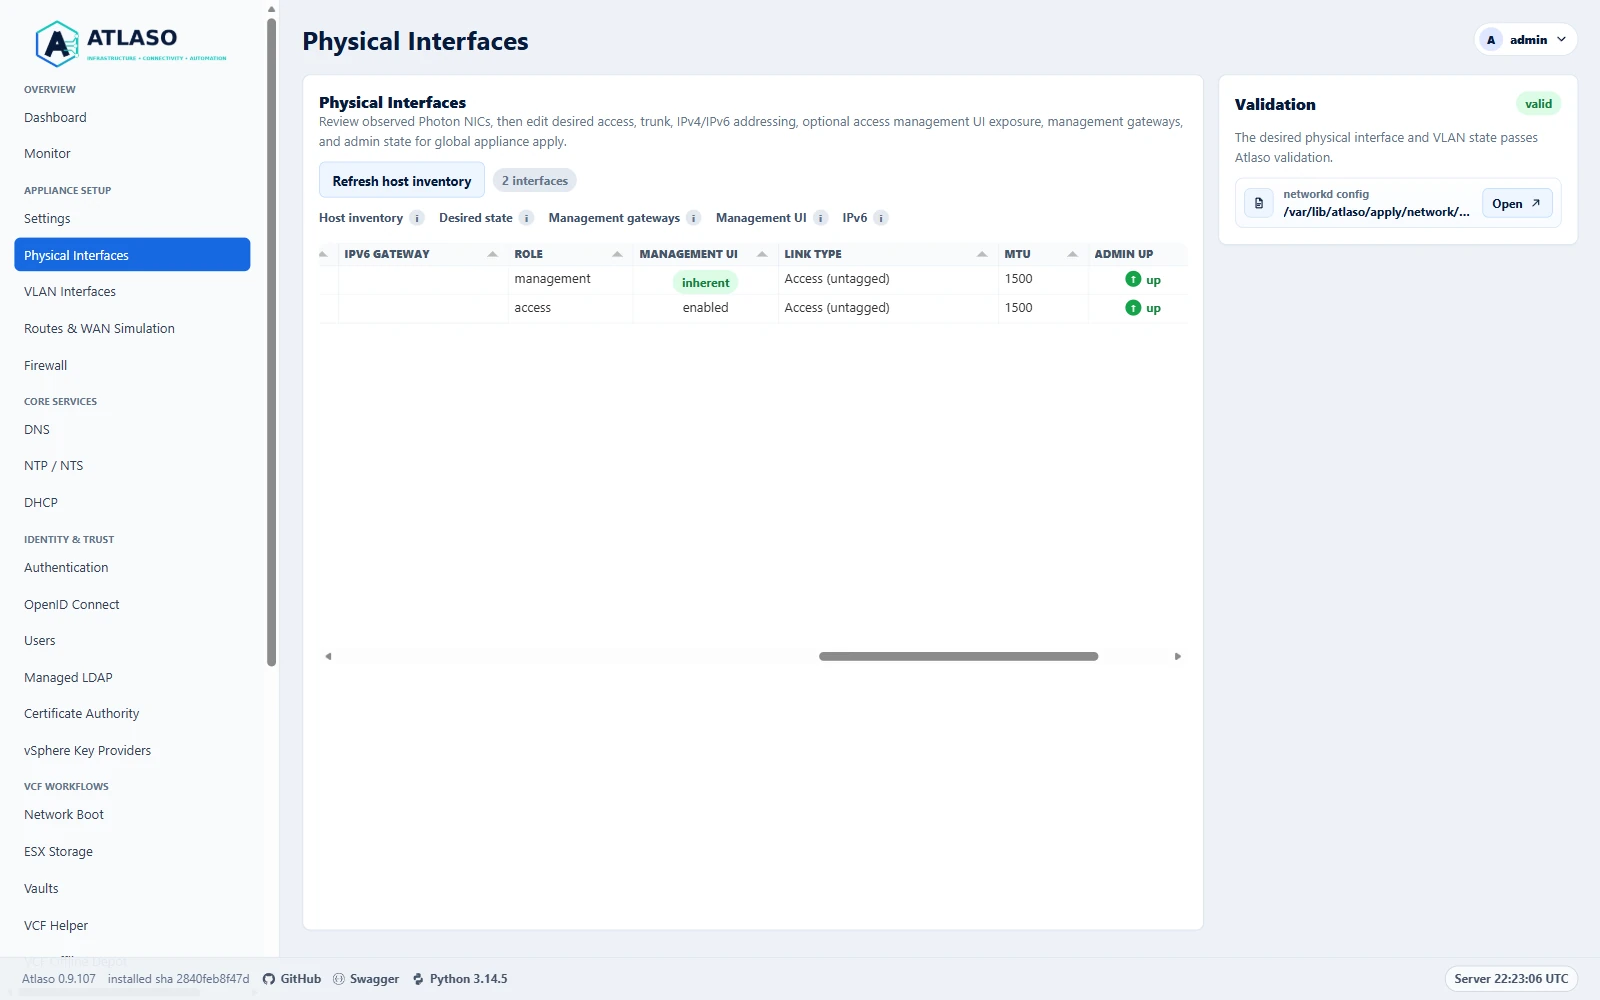
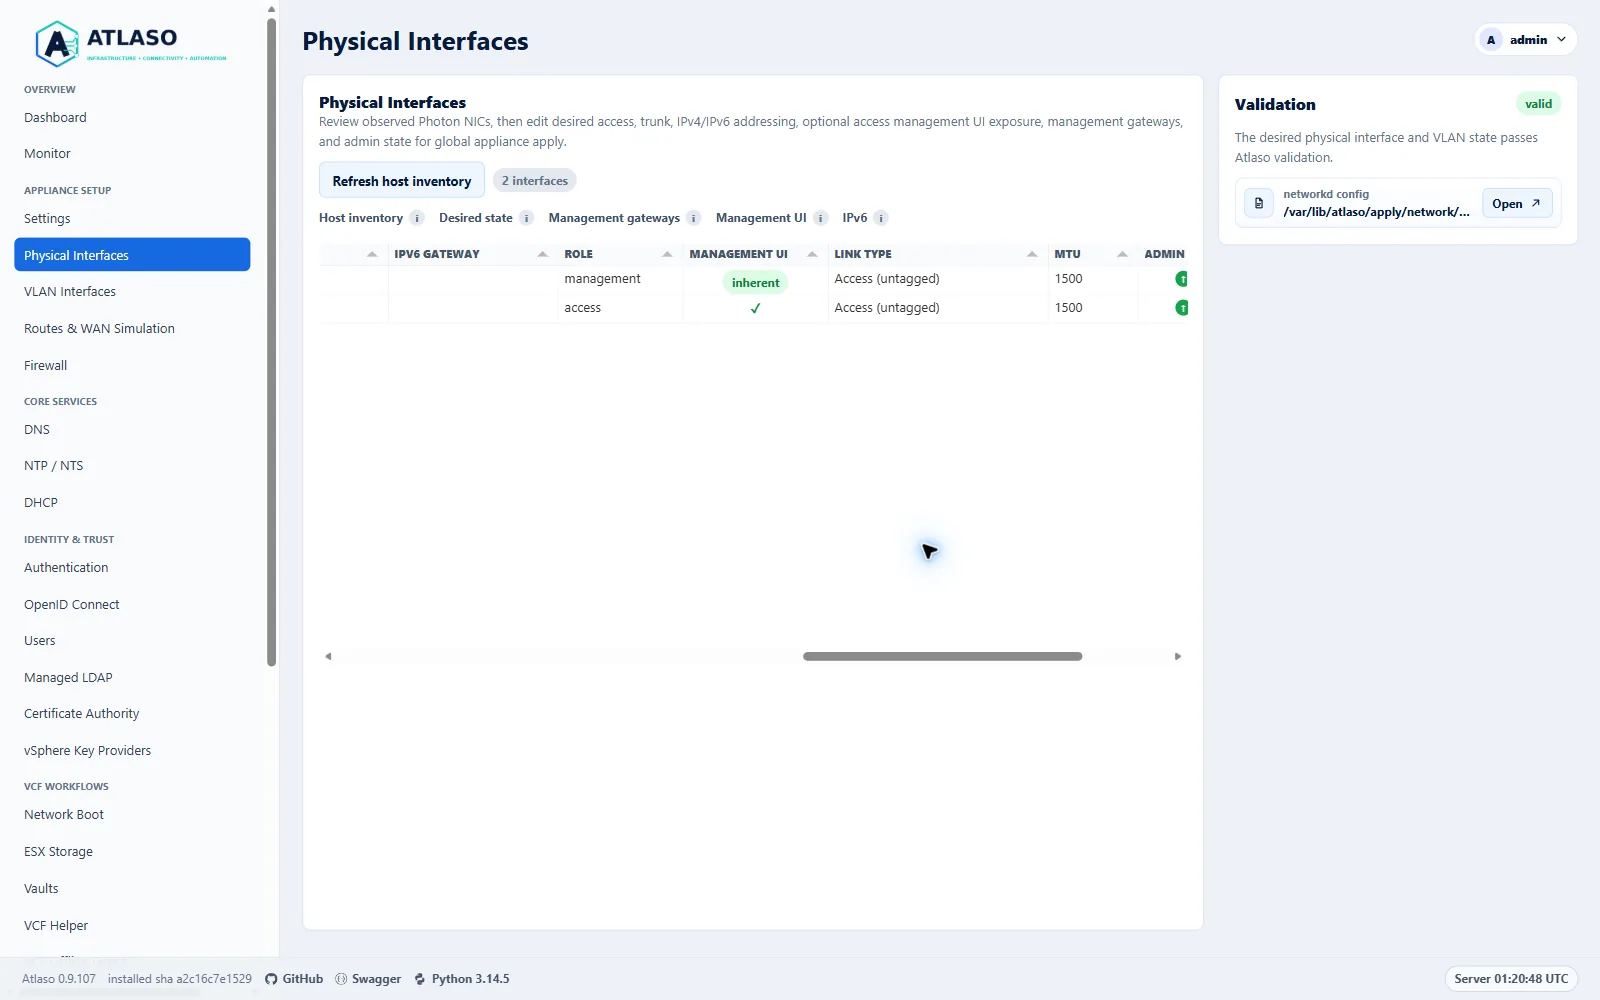
fix(ui): use standard boolean glyphs

diff --git a/atlaso/app/static/app.js b/atlaso/app/static/app.js
@@ -7859,7 +7859,9 @@ function initializePhysicalInterfacesTable() {
         {
           title: "Management UI",
           field: "access_management_ui_enabled",
-          formatter: (cell) => cell.getRow().getData().role === "management" ? '<span class="status-pill good">inherent</span>' : (cell.getValue() ? "enabled" : "disabled"),
+          formatter: (cell) => cell.getRow().getData().role === "management"
+            ? '<span class="status-pill good">inherent</span>'
+            : atlasoBooleanFormatter(cell),
           editor: "tickCross",
           editable: (cell) => {
             const data = cell.getRow().getData();
@@ -8927,7 +8929,7 @@ function initializeVlanInterfacesTable() {
         {
           title: "Management UI",
           field: "access_management_ui_enabled",
-          formatter: "tickCross",
+          formatter: atlasoBooleanFormatter,
           editor: "tickCross",
           editable: (cell) => cell.getRow().getData().role === "access" && cell.getRow().getData().enabled,
           hozAlign: "center",

diff --git a/atlaso/app/static/service-worker.js b/atlaso/app/static/service-worker.js
@@ -1,4 +1,4 @@
-const ATLASO_CACHE = "atlaso-management-pwa-v246";
+const ATLASO_CACHE = "atlaso-management-pwa-v247";
 const ATLASO_ASSETS = [
   "/manifest.webmanifest",
   "/favicon.ico",
@@ -7,7 +7,7 @@ const ATLASO_ASSETS = [
   "/static/ui-patterns.js?v=atlaso-ui-foundation-20260726-8",
   "/static/ui-routes.js?v=issue-287-1",
   "/static/appliance-apply-polling.js?v=issue-294-2",
-  "/static/app.js?v=access-management-ui-302-1",
+  "/static/app.js?v=access-management-ui-302-2",
   "/static/terminal.js?v=issue-287-2",
   "/static/vendor/xterm/xterm.css?v=5.5.0",
   "/static/vendor/xterm/xterm.js?v=5.5.0",

diff --git a/atlaso/app/templates/base.html b/atlaso/app/templates/base.html
@@ -313,7 +313,7 @@
     <link rel="stylesheet" href="/static/vendor/monaco/atlaso-monaco.min.css?v=atlaso-monaco-20260806-7">
     <script src="/static/vendor/monaco/atlaso-monaco.min.js?v=atlaso-monaco-20260806-7"></script>
     <script src="/static/ui-routes.js?v=issue-287-1"></script>
-    <script src="/static/app.js?v=access-management-ui-302-1"></script>
+    <script src="/static/app.js?v=access-management-ui-302-2"></script>
     <script src="/static/pwa.js?v=issue-287-2"></script>
     {% block extra_scripts %}{% endblock %}
   </body>

diff --git a/atlaso/app/templates/public_portal_base.html b/atlaso/app/templates/public_portal_base.html
@@ -76,7 +76,7 @@
     <script src="/static/vendor/tabulator/tabulator.min.js"></script>
     <script src="/static/ui-patterns.js?v=atlaso-ui-foundation-20260726-8"></script>
     <script src="/static/ui-routes.js?v=issue-287-1"></script>
-    <script src="/static/app.js?v=access-management-ui-302-1"></script>
+    <script src="/static/app.js?v=access-management-ui-302-2"></script>
     {% block public_after_main %}{% endblock %}
   </body>
 </html>

diff --git a/tests/test_ui.py b/tests/test_ui.py
@@ -1001,7 +1001,7 @@ def test_pwa_manifest_service_worker_and_offline_shell(client):
     assert service_worker.headers["cache-control"] == "no-cache"
     assert service_worker.headers["service-worker-allowed"] == "/ui/management/"
     assert "ATLASO_CACHE" in service_worker.text
-    assert "atlaso-management-pwa-v246" in service_worker.text
+    assert "atlaso-management-pwa-v247" in service_worker.text
     assert 'fetch(asset, { cache: "reload" })' in service_worker.text
     assert ".catch(() => undefined)" in service_worker.text
     assert 'request.mode === "navigate"' in service_worker.text
@@ -1019,7 +1019,7 @@ def test_pwa_manifest_service_worker_and_offline_shell(client):
     assert "/static/ui-patterns.js?v=atlaso-ui-foundation-20260726-8" in service_worker.text
     assert "/static/appliance-apply-polling.js?v=issue-294-2" in service_worker.text
     assert "/static/ui-routes.js?v=issue-287-1" in service_worker.text
-    assert "/static/app.js?v=access-management-ui-302-1" in service_worker.text
+    assert "/static/app.js?v=access-management-ui-302-2" in service_worker.text
     assert "/static/terminal.js?v=issue-287-2" in service_worker.text
     assert "/static/pwa.js?v=issue-287-2" in service_worker.text
     assert "vcfdt-configuration-248-20260807-14" not in service_worker.text
@@ -1051,8 +1051,8 @@ def test_shared_ui_pattern_shell_and_wizard_contracts(client):
     base = (templates / "base.html").read_text(encoding="utf-8")
     public_base = (templates / "public_portal_base.html").read_text(encoding="utf-8")
     for shell, app_asset in (
-        (base, "/static/app.js?v=access-management-ui-302-1"),
-        (public_base, "/static/app.js?v=access-management-ui-302-1"),
+        (base, "/static/app.js?v=access-management-ui-302-2"),
+        (public_base, "/static/app.js?v=access-management-ui-302-2"),
         (base, "/static/appliance-apply-polling.js?v=issue-294-2"),
     ):
         assert shell.index("/static/vendor/tabulator/tabulator.min.js") < shell.index(
@@ -1677,7 +1677,7 @@ def test_monitor_page_renders_and_data_endpoint(client):
     assert "swagger-link-icon" in page.text
     assert "/static/app.css?v=vsphere-key-providers-170-20260810-1" in page.text
     assert "/static/ui-patterns.js?v=atlaso-ui-foundation-20260726-8" in page.text
-    assert "/static/app.js?v=access-management-ui-302-1" in page.text
+    assert "/static/app.js?v=access-management-ui-302-2" in page.text
     app_css = client.get("/static/app.css")
     assert app_css.status_code == 200
     assert ".split-workspace > .wide-panel" in app_css.text
@@ -13743,8 +13743,20 @@ def test_physical_and_vlan_pages_render(client):
     assert "vlan-interfaces-table" in vlans.text
     assert "An enabled access VLAN can expose the authenticated management UI" in vlans.text
     app_js = client.get("/static/app.js").text
+    physical_table_js = app_js.split("function initializePhysicalInterfacesTable()", 1)[1].split(
+        "function initializeVlanInterfacesTable()", 1
+    )[0]
+    physical_management_ui_column = physical_table_js.split('title: "Management UI"', 1)[1].split(
+        'title: "Link Type"', 1
+    )[0]
+    assert "atlasoBooleanFormatter(cell)" in physical_management_ui_column
+    assert '<span class="status-pill good">inherent</span>' in physical_management_ui_column
     assert "+ Add VLAN" in app_js
     vlan_table_js = app_js.split("function initializeVlanInterfacesTable()", 1)[1].split("function initializeDnsRecordsTable()", 1)[0]
+    vlan_management_ui_column = vlan_table_js.split('title: "Management UI"', 1)[1].split(
+        'title: "Admin Up"', 1
+    )[0]
+    assert "formatter: atlasoBooleanFormatter" in vlan_management_ui_column
     assert vlan_table_js.index('field: "add_vlan"') < vlan_table_js.index('field: "vlan_id"') < vlan_table_js.index('field: "parent_interface"') < vlan_table_js.index('field: "name"')
     assert 'cellClick: (event, cell) => activateNewVlanRow(cell)' in vlan_table_js
     assert 'markNewRecordRow(row, "vlan_id", "add_vlan")' in vlan_table_js

diff --git a/docs/operate/networking.md b/docs/operate/networking.md
@@ -16,9 +16,9 @@ preserving management access.
 
 This verified appliance view provides visual orientation before you begin.
 
-![Atlaso Physical Interfaces page showing inherent management UI on eth0 and enabled management UI on access interface eth1.](../assets/screenshots/physical-interfaces-clean-desktop.webp)
+![Atlaso Physical Interfaces page showing inherent management UI on eth0 and the true glyph on access interface eth1.](../assets/screenshots/physical-interfaces-clean-desktop.webp)
 
-*Figure: Physical Interfaces showing dedicated and access management UI exposure in the verified appliance desktop state.*
+*Figure: Physical Interfaces showing inherent management exposure and the standard Atlaso true glyph for access exposure.*
 
 <!-- END GENERATED INTERFACE OVERVIEW -->
 
@@ -74,9 +74,9 @@ These captures show responsive layouts and useful operational states referenced 
 
 ### Physical interfaces
 
-![Responsive Atlaso Physical Interfaces page showing inherent and enabled management UI states.](../assets/screenshots/physical-interfaces-clean-responsive.webp)
+![Responsive Atlaso Physical Interfaces page showing inherent management UI and the true glyph for access management UI.](../assets/screenshots/physical-interfaces-clean-responsive.webp)
 
-*Figure: Physical Interfaces management UI exposure in the verified appliance responsive state.*
+*Figure: Physical Interfaces showing inherent management exposure and the standard Atlaso true glyph at the responsive viewport.*
 
 ### Routes and WAN simulation
 
